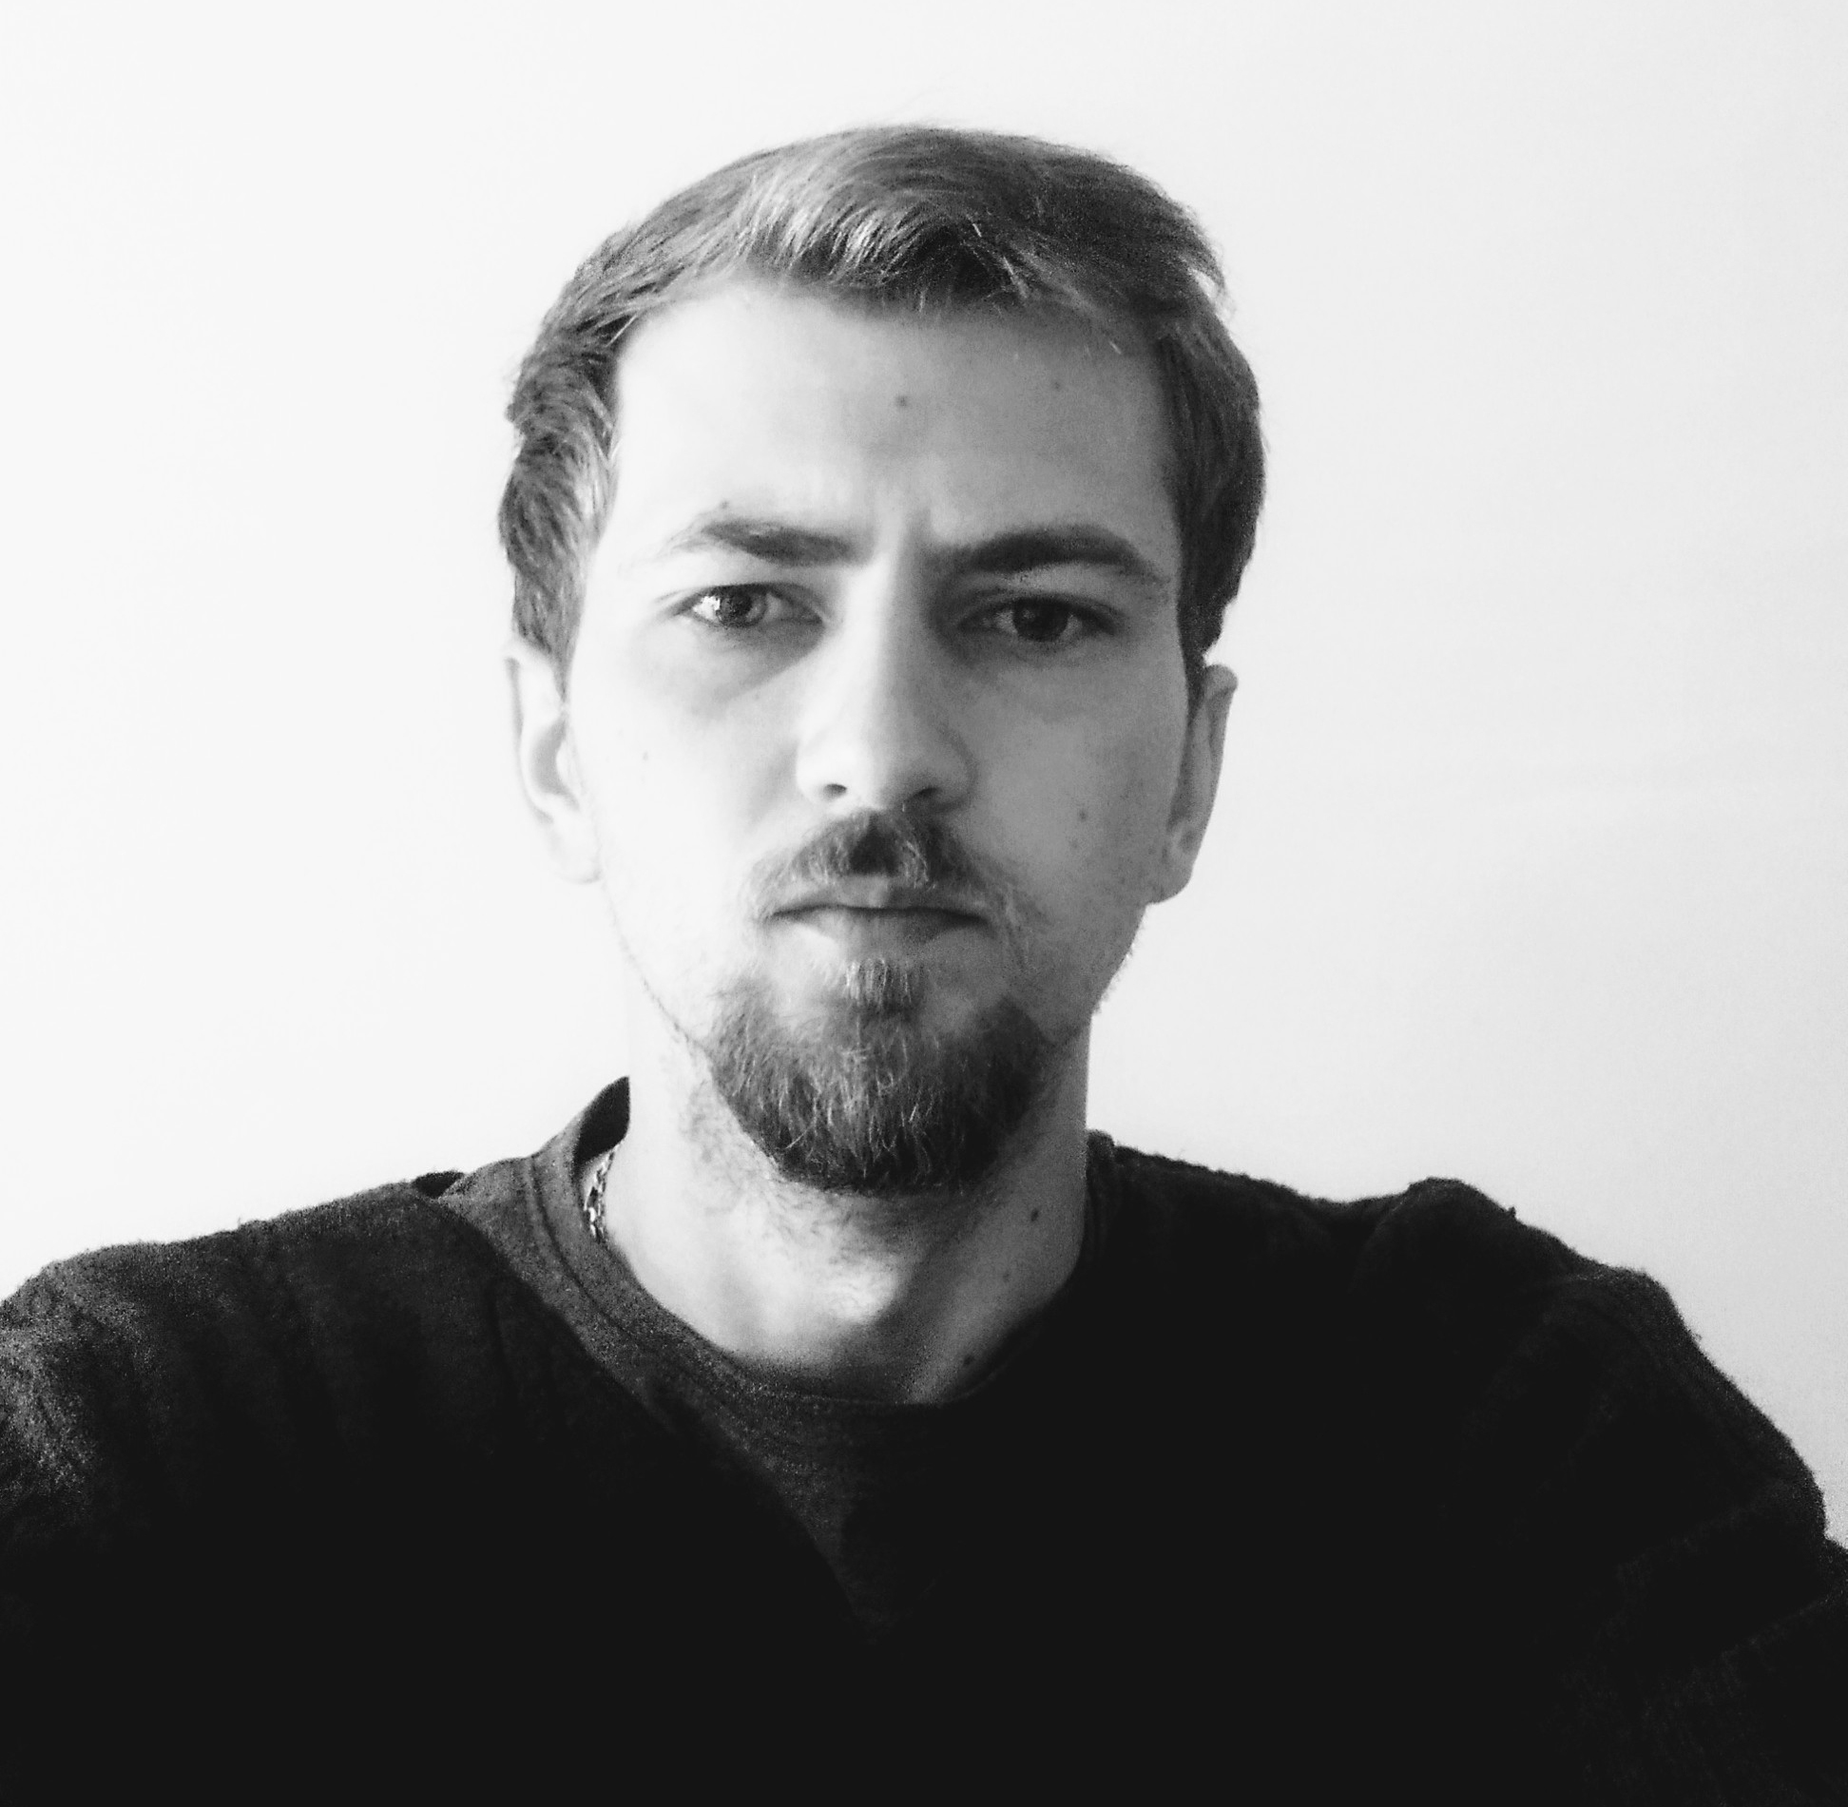
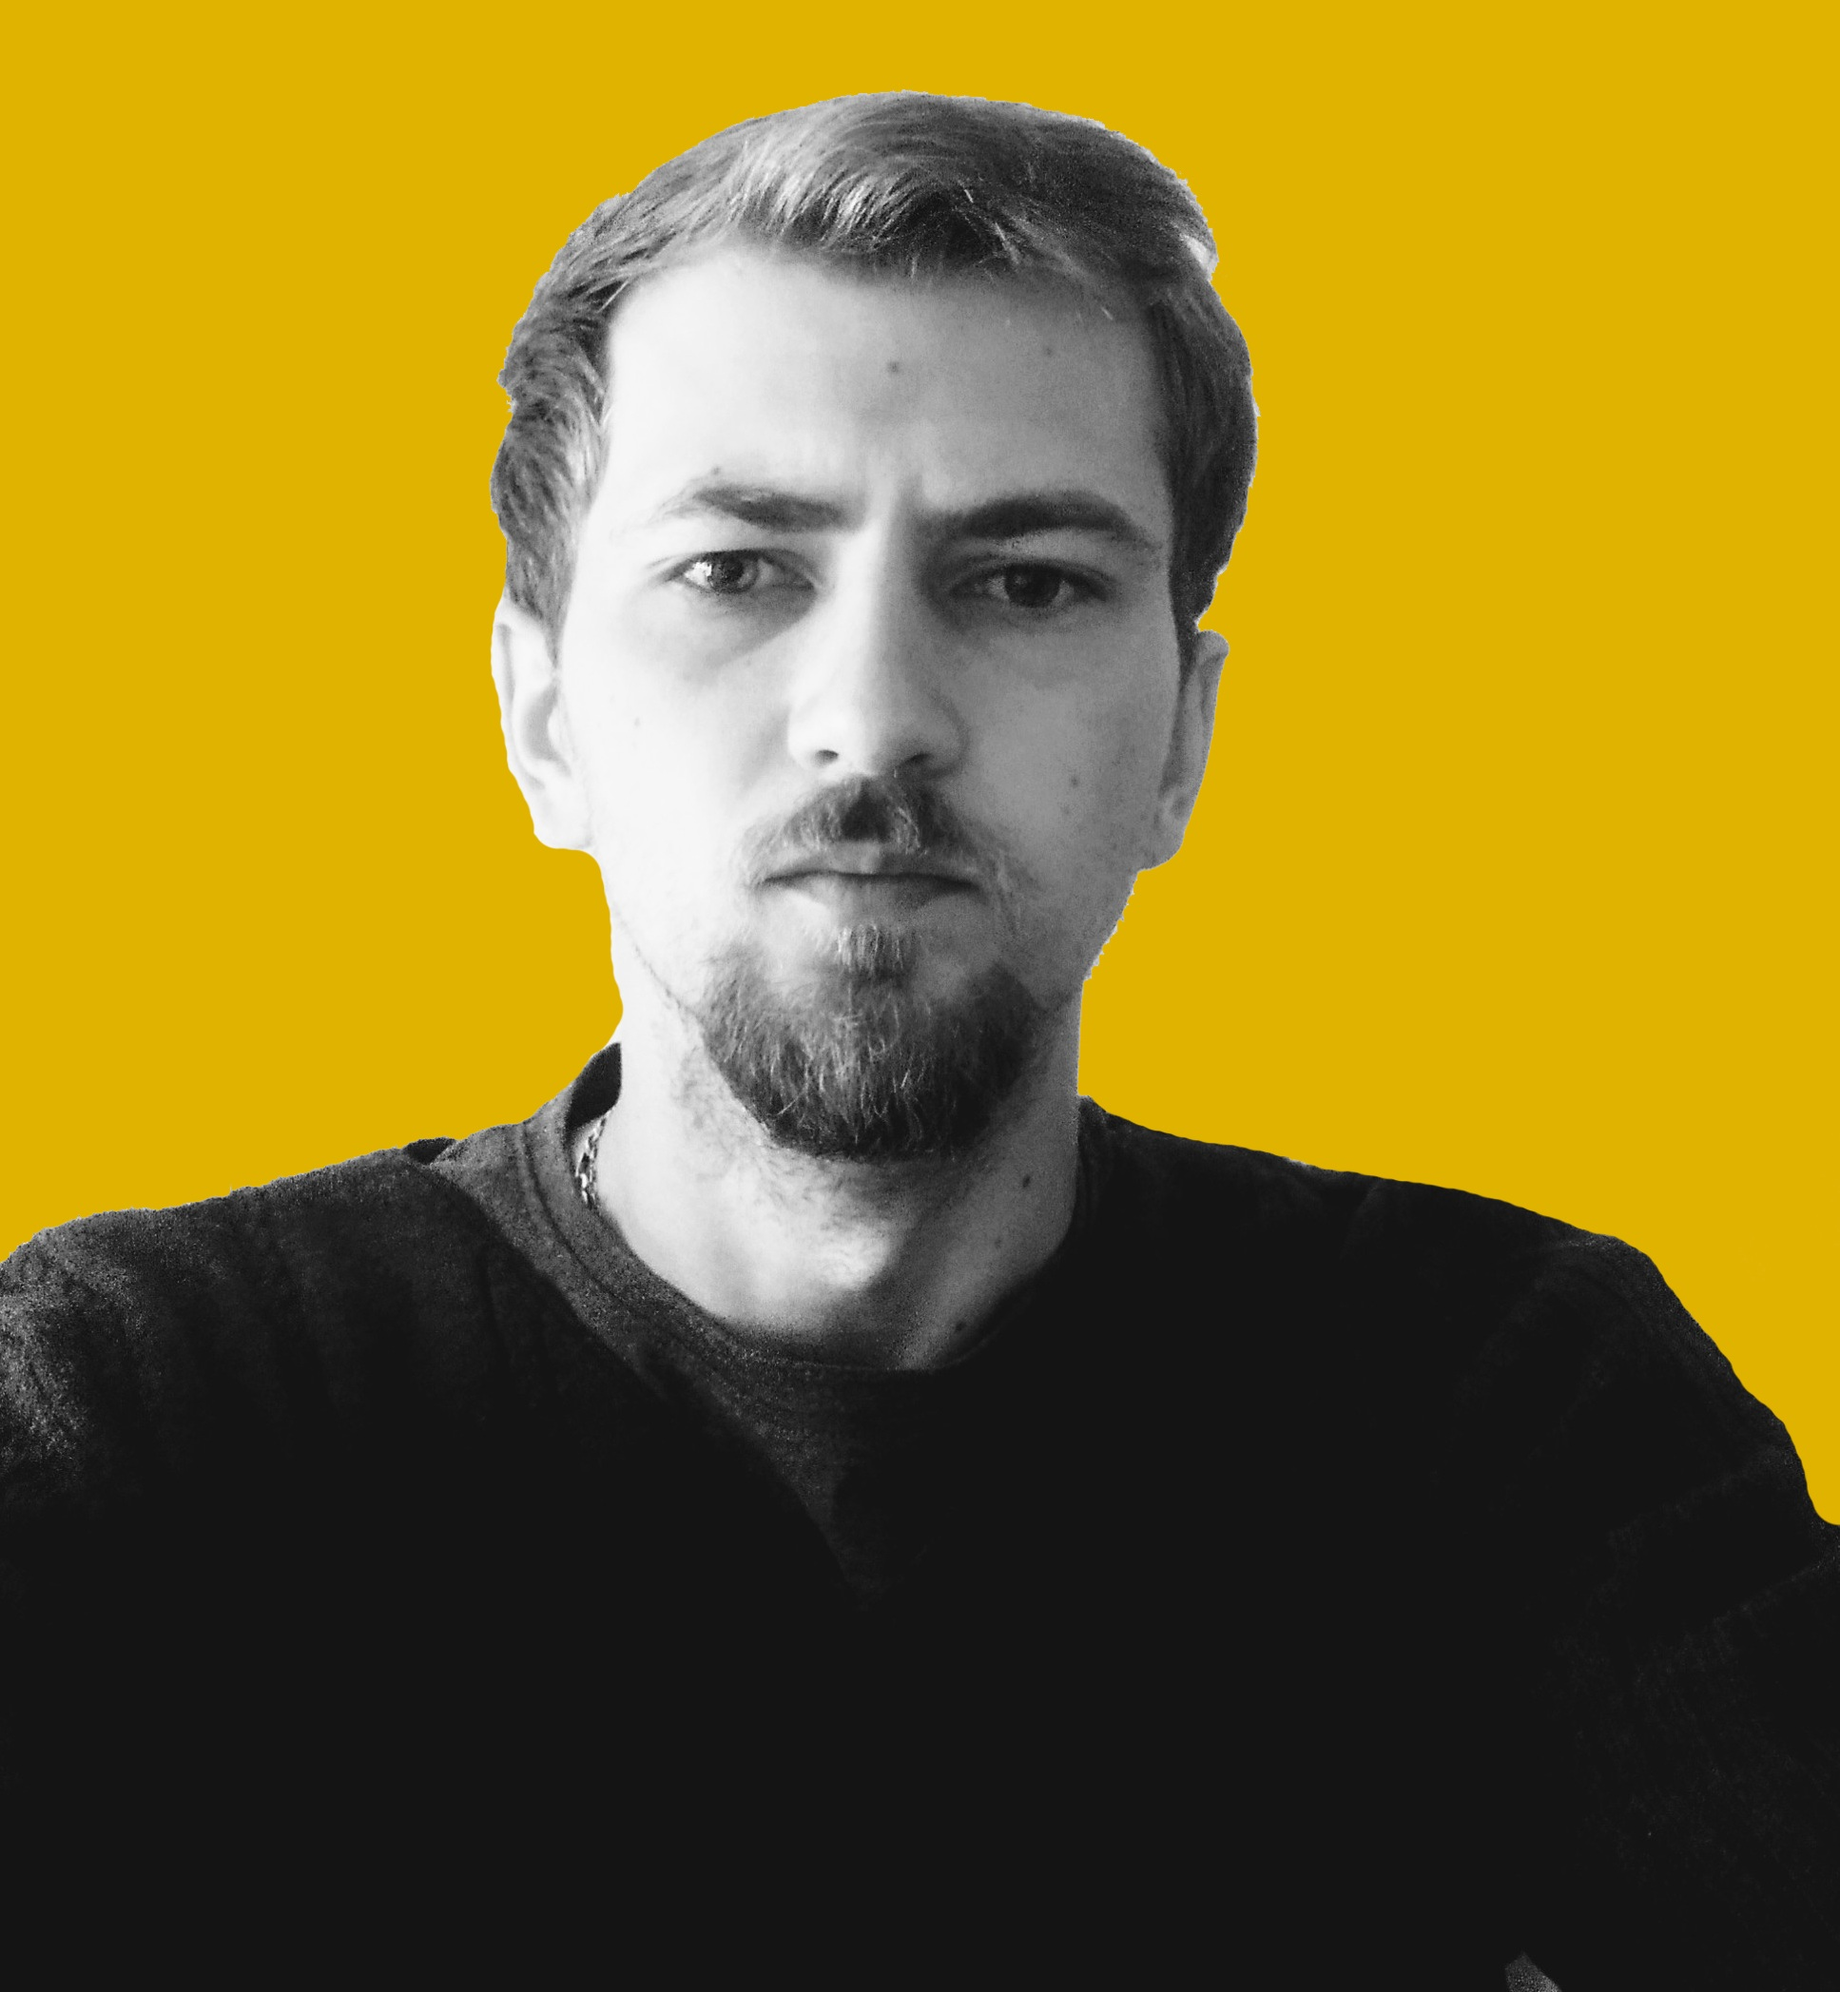
feat: add social links and basic components

diff --git a/index.html b/index.html
@@ -8,46 +8,50 @@
 </head>
 
 <body>
+    <div class="black-gorizontal">
+        <header class="header">
+            <h1>DZMITRY PASAVETS</h1>
+            <hr>
+            <h2>Frontend Developer</h2>
+        </header>
+    </div>
 
-    <header class="header">
-        <h1>MY CV - my experience</h1>
-        <img src="./assets/img/ava.jpg" alt="My photo" width="300">
-    </header>
+    <div class="yelow-vertikal">
+        <h3>Location</h3>
+        <h4>Belarus, Drohiczyn</h4>
+        <img src="./assets/img/ava.jpg" alt="My photo" width="285">
+        <h3>Contacts</h3>
+        <div><img src="./assets/img/phone.png" alt="" width="50">8 (029) 739 04 50 (Belarus)</div>
+        <a href="https://github.com/dimaPolonez"><img src="./assets/img/github.png" alt="" width="50"></a>
+        <a href="https://discord.com/users/939083100925874186"><img src="./assets/img/diskord.png" alt=""
+                width="50"></a>
+        <a href="https://t.me//dimaPolonez"><img src="./assets/img/telegram.png" alt="" width="50"></a>
+        <a href="https://www.facebook.com/profile.php?id=100081331069651"><img src="./assets/img/facebook.png" alt=""
+                width="50"></a>
+        <a href="https://www.linkedin.com/in/dimapolonez/ "><img src="./assets/img/linkedn.png" alt="" width="50"></a>
 
-    <main class="main">
-        <div>Name and surname</div>
-        <span>Dzmitry Pasavets</span>
 
-
-        <div>Contacts for communication</div>
-        <div>
-            <ul>
-                <li><a href="">Phone - 8 (029) 739 04 50 (Belarus)</a></li>
-                <li><a href="https://www.linkedin.com/in/dimapolonez/ ">LinkedIn</a></li>
-                <li><a href="https://github.com/dimaPolonez">GitHub</a></li>
-                <li><a href="https://discord.com/users/939083100925874186">Diskord</a></li>
-                <li><a href="https://t.me//dimaPolonez">Telegram</a></li>
-                <li><a href="https://www.facebook.com/profile.php?id=100081331069651">Facebook</a></li>
-            </ul>
+        <h3>Skills</h3>
+        <img src="./assets/img/favicon.png" alt="" width="100">
+        <div class="skills">
+            <h4>HTML</h4>
+            <h4>CSS</h4>
+            <h4>JavaScript</h4>
+            <h4>GIT</h4>
         </div>
 
-        <div>About me</div>
-        <span>Shoemaker without boots. Programmer by education, unrealized by vocation.</span>
+    </div>
 
-        <div>Skills</div>
-        <div>
-            <ul>
-                <li>Network administration - Middle</li>
-                <li>Computer repair - Middle</li>
-                <li>HTML - Junior</li>
-                <li>CSS - Junior</li>
-                <li>JavaScript - Junior</li>
-                <li>Worked in Delphi, C++, C#.</li>
-            </ul>
-        </div>
+    <div class="main-block">
+        <main class="main">
 
-        <div>Code examples</div>
-        <pre>function numProst(numberMax){ //Function for output of prime numbers
+            <h3>About me</h3>
+            <h4>Shoemaker without boots. Programmer by education, unrealized by vocation.</h4>
+
+
+            <h3>Code examples</h3>
+            <pre>
+        numProst(numberMax){ //Function for output of prime numbers
     
         let baseArr = [];
         let prostArr = [];
@@ -65,26 +69,27 @@
         }   
         
         return prostArr;
-        }</pre>
+        }
+    </pre>
 
-        <div>Work experience</div>
-        <span>Experience as a system administrator - 3 years</span>
-        <span>Remote work on site administration - 3 years</span>
+            <h3>Work experience</h3>
+            <h4>Experience as a system administrator - 3 years</h4>
+            <h4>Remote work on site administration - 3 years</h4>
 
-        <div>Education</div>
-        <span>Secondary-special education: Pinsk College of Light Industry - specialty programmer (2009-2015)</span>
-        <span>Now I am studying courses in Rolling Scopes School</span>
+            <h3>Education</h3>
+            <h4>Secondary-special education: Pinsk College of Light Industry - specialty programmer (2009-2015)</h4>
+            <h4>Now I am studying courses in Rolling Scopes School</h4>
 
-        <div>English language </div>
-        <span>Level - A1 Beginner </span>
+            <h3>English language </h3>
+            <h4>Level - A1 Beginner </h4>
 
-    </main>
+        </main>
 
-    <footer class="footer">
+        <footer class="footer">
 
 
-    </footer>
-
+        </footer>
+    </div>
 
 </body>
 

diff --git a/style.css b/style.css
@@ -13,13 +13,89 @@
     box-sizing: border-box;
 }
 
+.main-block {
+    background-color: white;
+    position: absolute;
+    width: 840px;
+    height: 997px;
+    left: 370px;
+    top: 443px;
+}
 
+.yelow-vertikal {
+    background-color: #e0b300;
+    width: 285px;
+    height: 1440px;
+    z-index: 3;
+    position: absolute;
+    left: 65px;
+    text-align: center;
+
+}
+
+.black-gorizontal {
+    background-color: #222130;
+    color: white;
+    z-index: 2;
+    position: absolute;
+    width: 1200px;
+    height: 278px;
+    text-align: center;
+    top: 149px;
+    border: 1px solid black;
+    box-shadow: 0 0 20px black;
+}
+
+header {
+    width: 400px;
+    height: 278px;
+    position: absolute;
+    text-align: center;
+    top: 60px;
+    left: 500px;
+}
 
 body {
     font-family: 'Roboto';
-    background-color: powderblue;
+    position: static;
 }
 
-h1 {
+h1,
+h2 {
     font-family: 'Cinzel';
+    color:#e0b300;
+}
+
+h3 {
+    border: 1px solid black;
+    box-shadow: 0 0 20px black;
+    font-family: 'Cinzel';
+    text-align: center;
+
+}
+h4 {
+    font-family: 'Cinzel';
+}
+
+hr {
+    border: 1px solid black;
+    box-shadow: 0 0 20px #e0b300;
+}
+
+a {
+    font-family: 'Cinzel';
+    text-decoration: none;
+    color: black;
+}
+
+.skills {
+    width: 280px;
+    position: absolute;
+    left: 10px;
+    text-align: center;
+}
+
+pre{
+    border: 1px solid black;
+    box-shadow: 0 0 20px black;
 }
